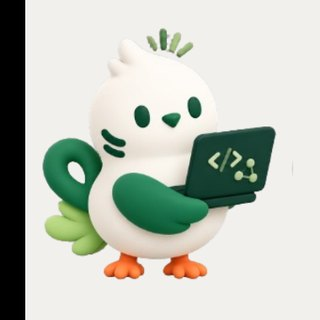
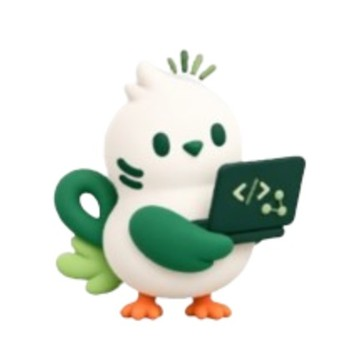
Style: Replace generation loading pigeons with new illustrations

diff --git a/client/src/features/generation/components/FlowUi.tsx b/client/src/features/generation/components/FlowUi.tsx
@@ -34,7 +34,8 @@ export function StepWaiting({
 
   return (
     <Screen hero={<Hero sub={failed ? '영상을 만들지 못했어요' : sub} />} next={failed ? { label: '다시 시도', onClick: onRetry } : undefined} prev={failed ? undefined : { label: '취소', onClick: onCancel, wide: true }}>
-      <div className="relative mx-auto mt-2 size-[220px] overflow-hidden rounded-3xl bg-[#f0efe9]">
+      {/* 일하는 비둘기 3장 (개발 → 디자인 → 서버, 2026-10-09 사용자 제공)을 차례로 */}
+      <div className="relative mx-auto mt-2 size-[220px] overflow-hidden rounded-3xl bg-white ring-1 ring-q-line">
         {WORKING.map((src, i) => (
           <img key={src} src={src} alt="" className={`absolute inset-0 size-full object-cover transition-opacity duration-700 ${i === pigeon ? 'opacity-100' : 'opacity-0'}`} />
         ))}
